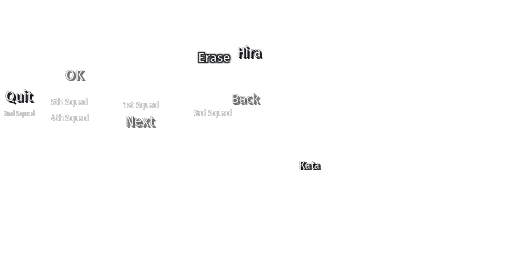
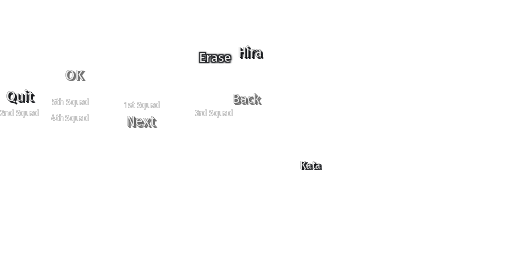
Move files that outgrow DataL into DataH; add three atlases
cpk.py: the ITOC's DataL table stores sizes in 16 bits. A rebuilt file
over 65,535 bytes now moves to DataH and both tables are written again.
With nothing moved the output is byte-identical to the old writer's.

gfx.py: only italic fonts get the extra pixel of width for lean, so
upright labels no longer shrink a size early. New option valign=c.

script/gfx: squad formation (13070_004) is back on, plus the battle
pause menu (54200_000) and the Mission Start and victory/defeat
banners (01002_009). 426 labels in 37 atlases; 12 overlays re-rendered.

diff --git a/tools/cpk.py b/tools/cpk.py
@@ -121,6 +121,32 @@ def utf_set(buf, row, column, value):
     struct.pack_into(fmt, buf, rows_off + row * row_len + off, value)
 
 
+def utf_pack_rows(columns, rows):
+    """Pack parse_utf rows back into bytes, one per row."""
+    per_row = [(name, typ) for name, storage, typ, _ in columns if storage == STORAGE_ROW]
+    fmt = '>' + ''.join(_TYPES[typ][0][1] for _, typ in per_row)
+    return [struct.pack(fmt, *(row[name] for name, _ in per_row)) for row in rows]
+
+
+def utf_with_rows(buf, rows):
+    """Copy of an unmasked @UTF table with its rows replaced (packed bytes).
+
+    Only for tables of numeric columns with no data region, such as the
+    ITOC's DataL and DataH. The table is padded to 8 bytes, as CRI's are.
+    """
+    _, rows_off, str_off, data_off, name_off, ncols, row_len, _ = \
+        struct.unpack_from('>IIIIIHHI', buf, 4)
+    if data_off + 8 != len(buf) or any(len(r) != row_len for r in rows):
+        raise ValueError('table has a data region or the rows do not fit it')
+    strings = bytes(buf[str_off + 8:data_off + 8]).rstrip(b'\0') + b'\0'
+    out = bytearray(buf[:rows_off + 8]) + b''.join(rows) + strings
+    out += b'\0' * (-len(out) % 8)
+    struct.pack_into('>IIIIIHHI', out, 4, len(out) - 8, rows_off,
+                     rows_off + row_len * len(rows), len(out) - 8,
+                     name_off, ncols, row_len, len(rows))
+    return out
+
+
 def read_chunk(f, off, magic):
     """Read a CPK chunk ('CPK ', 'TOC ', ...) and return its parsed @UTF table."""
     f.seek(off)
@@ -177,6 +203,8 @@ def crilayla_decompress(src):
 # --- archive ----------------------------------------------------------------
 
 class Cpk:
+    DATAL_MAX = 0xFFFF   # largest file size the ITOC's DataL table can hold
+
     def __init__(self, path):
         self.path = path
         self.f = open(path, 'rb')
@@ -242,7 +270,7 @@ class Cpk:
         """Write a copy of this ID-only archive with some files replaced.
 
         replacements: {file id: bytes}. Stored uncompressed; offsets of later
-        files shift, so the ITOC sizes and header totals are patched in place.
+        files shift, so the ITOC sizes and header totals are written again.
         """
         if self.header.get('TocOffset') or not self.header.get('ItocOffset'):
             raise NotImplementedError('only ITOC (ID-only) archives are supported')
@@ -252,23 +280,40 @@ class Cpk:
         for fid, data in replacements.items():
             sizes[fid] = len(data)
 
-        # ITOC: patch FileSize/ExtractSize in the nested DataL/DataH tables
+        # ITOC: new FileSize/ExtractSize in the nested DataL/DataH tables.
+        # DataL stores sizes in 16 bits, so a file that outgrows it moves
+        # to DataH and both tables are written again.
         itoc_off = self.header['ItocOffset']
         itoc_hdr, itoc, itoc_masked = self._chunk_table(itoc_off)
-        _, _, data_off, cols = utf_locate(itoc)
-        rows_off = utf_locate(itoc)[0]
-        for key, limit in (('DataL', 0xFFFF), ('DataH', 0xFFFFFFFF)):
+        rows_off, _, data_off, cols = utf_locate(itoc)
+        tables = {}
+        for key in ('DataL', 'DataH'):
             boff, bsize = struct.unpack_from('>II', itoc, rows_off + cols[key][0])
-            blob = itoc[data_off + boff:data_off + boff + bsize]
-            _, _, rows = parse_utf(bytes(blob))
-            for r, row in enumerate(rows):
+            blob = bytes(itoc[data_off + boff:data_off + boff + bsize])
+            _, columns, rows = parse_utf(blob)
+            for row in rows:
                 if row['ID'] in replacements:
-                    size = sizes[row['ID']]
-                    if size > limit:
-                        raise ValueError(f"file {row['ID']} grew past {key} limit")
-                    utf_set(blob, r, 'FileSize', size)
-                    utf_set(blob, r, 'ExtractSize', size)
-            itoc[data_off + boff:data_off + boff + bsize] = blob
+                    row['FileSize'] = row['ExtractSize'] = sizes[row['ID']]
+            tables[key] = (blob, columns, rows)
+        low, high = tables['DataL'][2], tables['DataH'][2]
+        grown = [r for r in low if r['FileSize'] > self.DATAL_MAX]
+        if grown:
+            ids = {r['ID'] for r in grown}
+            low[:] = [r for r in low if r['ID'] not in ids]
+            high[:] = sorted(high + grown, key=lambda r: r['ID'])
+        packed = [utf_with_rows(blob, utf_pack_rows(columns, rows))
+                  for blob, columns, rows in (tables['DataL'], tables['DataH'])]
+        old_len = len(itoc)
+        itoc = itoc[:data_off] + packed[0] + packed[1]
+        struct.pack_into('>I', itoc, 4, len(itoc) - 8)
+        utf_set(itoc, 0, 'FilesL', len(low))
+        utf_set(itoc, 0, 'FilesH', len(high))
+        struct.pack_into('>II', itoc, rows_off + cols['DataL'][0], 0, len(packed[0]))
+        struct.pack_into('>II', itoc, rows_off + cols['DataH'][0],
+                         len(packed[0]), len(packed[1]))
+        if itoc_off + 0x10 + len(itoc) > content_off:
+            raise ValueError(f'ITOC grew past the file data ({len(grown)} files '
+                             'moved to DataH)')
 
         # header totals
         hdr_hdr, header, hdr_masked = self._chunk_table(0)
@@ -281,6 +326,7 @@ class Cpk:
         utf_set(header, 0, 'ContentSize', (end - content_off + align - 1) // align * align)
         utf_set(header, 0, 'EnabledPackedSize', total)
         utf_set(header, 0, 'EnabledDataSize', total)
+        utf_set(header, 0, 'ItocSize', 0x10 + len(itoc))
 
         def remask(t, masked):
             return utf_unmask(bytes(t)) if masked else bytes(t)
@@ -288,7 +334,9 @@ class Cpk:
         self.f.seek(0)
         prefix = bytearray(self.f.read(content_off))
         prefix[0x10:0x10 + len(header)] = remask(header, hdr_masked)
-        prefix[itoc_off + 0x10:itoc_off + 0x10 + len(itoc)] = remask(itoc, itoc_masked)
+        struct.pack_into('<Q', prefix, itoc_off + 8, len(itoc))
+        end = itoc_off + 0x10 + max(old_len, len(itoc))
+        prefix[itoc_off + 0x10:end] = remask(itoc, itoc_masked).ljust(end - itoc_off - 0x10, b'\0')
 
         by_id = {e['id']: e for e in self.files}
         with open(dst, 'wb') as out:

diff --git a/tools/gfx.py b/tools/gfx.py
@@ -30,6 +30,8 @@ Row options, space separated (a row with sprite `*` sets defaults):
   outline=N    outline width in px (default: sampled)
   align=l|c|r  where the text sits in the sprite (default: centred on the
                Japanese ink)
+  valign=c     centre the text between the sprite's top and bottom
+               (default: on the Japanese glyphs)
   like=N       take the colours from sprite N instead
   fill=RRGGBB[,RRGGBB]  fill colour (top,bottom) instead of the sampled one
   edge=RRGGBB  outline colour instead of the sampled one
@@ -515,8 +517,9 @@ def draw_label(size, text, look, opts):
     warn = None
     while True:
         font = font_for_cap(key, cap)
-        # +1: italic letters lean a little past their advance width
-        widths = [font.getlength(s) + 1 for s in lines]
+        # italic letters lean a little past their advance width
+        lean = 'Italic' in FONTS[key]
+        widths = [font.getlength(s) + lean for s in lines]
         asc = font.getbbox('H')
         cap_h = asc[3] - asc[1]
         gap = max(2, cap_h // 3)
@@ -535,7 +538,7 @@ def draw_label(size, text, look, opts):
             if wide:
                 warn = f'"{text}" is {round(max(widths)) + pad_l + pad_r} px in a {w} px sprite'
             break
-    if len(lines) > 1:
+    if len(lines) > 1 or opts.get('valign') == 'c':
         y0 = (h - block) // 2
     else:
         y0 = look['core'][0] + (core - cap_h + 1) // 2
